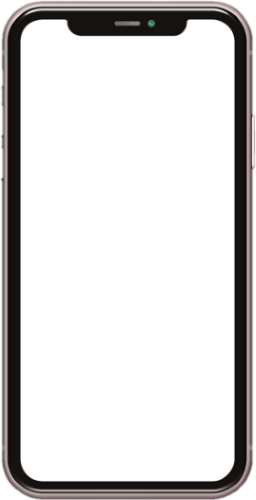
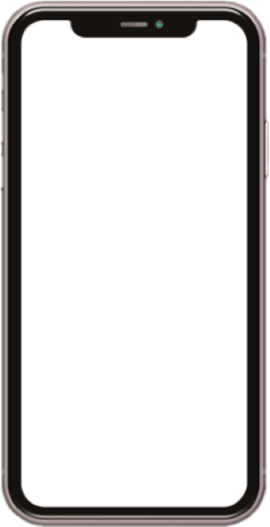
mudança pro iphone 13

diff --git a/home.html b/home.html
@@ -8,15 +8,23 @@
             padding: 0px;
             margin: 0px;
         }
-        body{
+        /*body{
             height: 100vh;
             width: 100vw;
             background: black url(img/tela-home.jpg) no-repeat top center;
+            background-size: cover;
+        }*/
+        main{
+            height: 100vh;
+            width: 100vw;
+            background-image: url(img/telateste.png);
+            background-position: top center;
             background-size: cover;
         }
     </style>
     <title>Home</title>
 </head>
 <body>
+    <main></main>
 </body>
 </html>

diff --git a/style.css b/style.css
@@ -19,7 +19,7 @@ section.iphone{
     top: 50%;
     left: 50%;
     transform: translate(-50%,-50%);
-    background: url(img/iphone.png) center center no-repeat fixed;
+    background: url(img/iphone13.png) center center no-repeat fixed;
     background-size: cover;
     z-index: 0;
 }
@@ -27,8 +27,9 @@ section.iphone{
 
 iframe#tela{
     position: relative;
-    top: 80px;
-    left: 22px;
-    height: 472px;
-    width: 267px;
+    top: 19px;
+    left: 18px;
+    height: 588px;
+    width: 272px;
+    overflow-y: hidden;
 }
